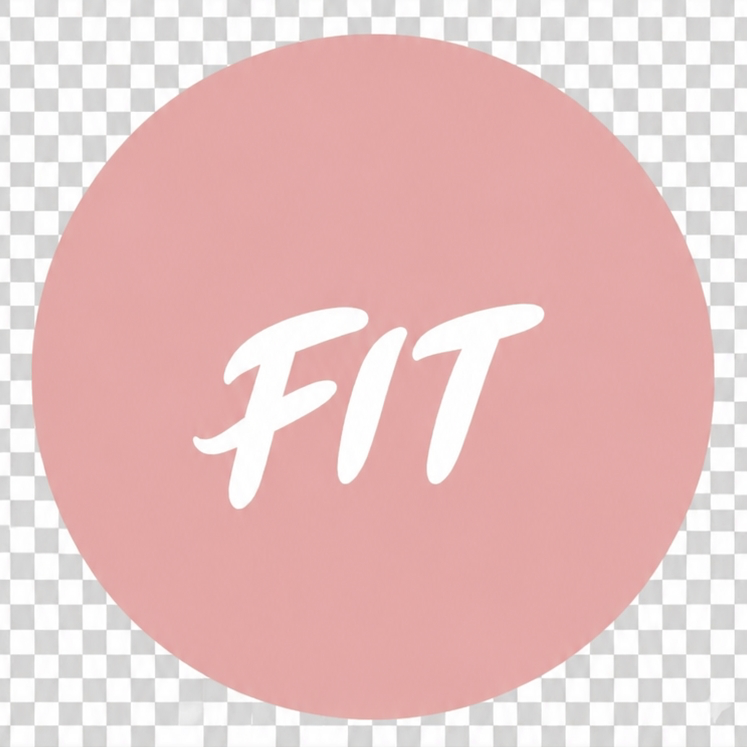
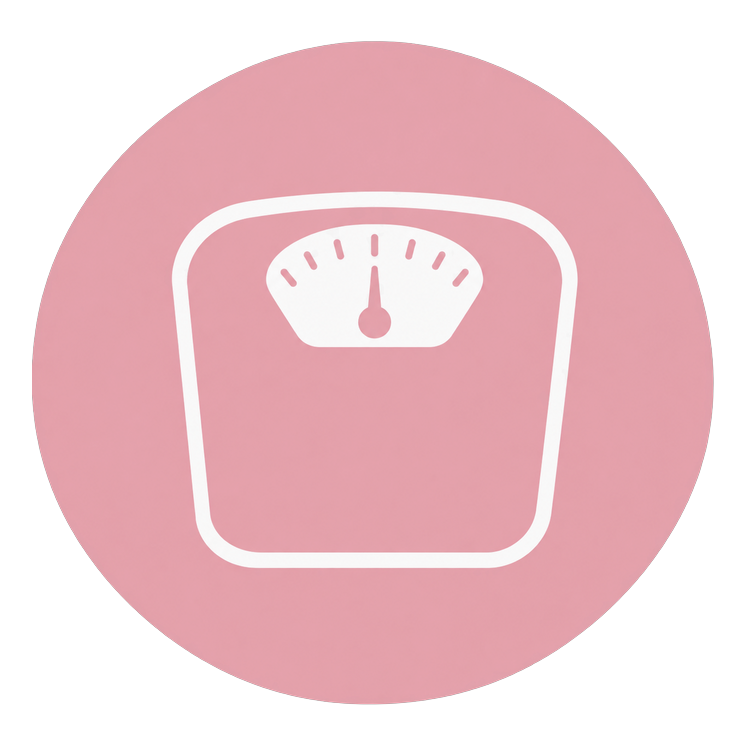
fix: App 改名為 SPARK SCALE，修復 4.1 Copycat 撞名與 2.3.7 metadata 審查問題
Apple 拒絕原因指出「SparkFit」名稱與其他第三方 App 撞名（4.1），且名稱/副標題含不相關內容（2.3.7）。改名為 SPARK SCALE 並同步更新 App 顯示名稱、圖示（含 iOS/Android 權限說明文字）、App 內標題與訂閱方案文字、匯出備份提示訊息。

diff --git a/src/hooks/useBackup.ts b/src/hooks/useBackup.ts
@@ -177,7 +177,7 @@ export function useBackup() {
         setMessage('準備匯出...');
         // documentDirectory（而非 cacheDirectory）搭配 app.json 的
         // UIFileSharingEnabled + LSSupportsOpeningDocumentsInPlace，
-        // 讓備份檔案直接出現在「檔案」App 的「我的 iPhone / SPARKFIT」，
+        // 讓備份檔案直接出現在「檔案」App 的「我的 iPhone / SPARK SCALE」，
         // 不必依賴分享面板「儲存到檔案」是否真的操作成功。
         const docUri = `${FileSystem.documentDirectory}${filename}`;
         await FileSystem.writeAsStringAsync(docUri, json, {
@@ -192,7 +192,7 @@ export function useBackup() {
         setProgress(100);
         setMessage('匯出完成');
         setBackupStatus('done');
-        Alert.alert('匯出成功', `備份已存到「檔案」App 的「我的 iPhone / SPARKFIT」資料夾\n\n檔案名稱：${filename}`, [
+        Alert.alert('匯出成功', `備份已存到「檔案」App 的「我的 iPhone / SPARK SCALE」資料夾\n\n檔案名稱：${filename}`, [
           { text: '確定', onPress: reset },
         ]);
       }

diff --git a/app/(tabs)/index.tsx b/app/(tabs)/index.tsx
@@ -85,7 +85,7 @@ export default function DataScreen() {
             <Ionicons name="chevron-back" size={26} color={themeColor} />
           </TouchableOpacity>
           <View style={styles.headerCenter}>
-            <Text style={[styles.appTitle, { color: themeColor }]}>SPARKFIT</Text>
+            <Text style={[styles.appTitle, { color: themeColor }]}>SPARK SCALE</Text>
             <TouchableOpacity onPress={openPicker} activeOpacity={0.7}>
               <Text style={styles.date}>{formatDate(selectedDate)}</Text>
             </TouchableOpacity>

diff --git a/app/(tabs)/analysis.tsx b/app/(tabs)/analysis.tsx
@@ -396,7 +396,7 @@ export default function AnalysisScreen() {
             <Ionicons name="chevron-back" size={26} color={themeColor} />
           </TouchableOpacity>
           <View style={styles.headerCenter}>
-            <Text style={[styles.appTitle, { color: themeColor }]}>SPARKFIT</Text>
+            <Text style={[styles.appTitle, { color: themeColor }]}>SPARK SCALE</Text>
             <Text style={styles.pageTitle}>分析</Text>
           </View>
           <View style={styles.headerSpacer} />

diff --git a/app/(tabs)/report.tsx b/app/(tabs)/report.tsx
@@ -230,7 +230,7 @@ export default function ReportScreen() {
             <Ionicons name="chevron-back" size={26} color={themeColor} />
           </TouchableOpacity>
           <View style={styles.headerCenter}>
-            <Text style={[styles.appTitle, { color: themeColor }]}>SPARKFIT</Text>
+            <Text style={[styles.appTitle, { color: themeColor }]}>SPARK SCALE</Text>
             <Text style={styles.pageTitle}>報告</Text>
           </View>
           <View style={styles.headerSpacer} />

diff --git a/app/settings.tsx b/app/settings.tsx
@@ -14,8 +14,8 @@ import { THEME_COLORS } from '@/constants';
 import { Colors } from '@/constants/colors';
 
 function packagePlanLabel(pkg: PurchasesPackage): string {
-  if (pkg.packageType === 'ANNUAL') return 'SPARK FIT Pro 年費方案';
-  if (pkg.packageType === 'MONTHLY') return 'SPARK FIT Pro 月費方案';
+  if (pkg.packageType === 'ANNUAL') return 'SPARK SCALE Pro 年費方案';
+  if (pkg.packageType === 'MONTHLY') return 'SPARK SCALE Pro 月費方案';
   return pkg.product.title;
 }
 

diff --git a/app/index.tsx b/app/index.tsx
@@ -16,7 +16,7 @@ export default function WelcomeScreen() {
 
       {/* Centre — title + subtitle */}
       <View style={styles.center}>
-        <Text style={styles.title}>SPARK FIT</Text>
+        <Text style={styles.title}>SPARK SCALE</Text>
         <Text style={styles.subtitle}>記錄所有的數據，我要見證我的蛻變</Text>
       </View>
 
